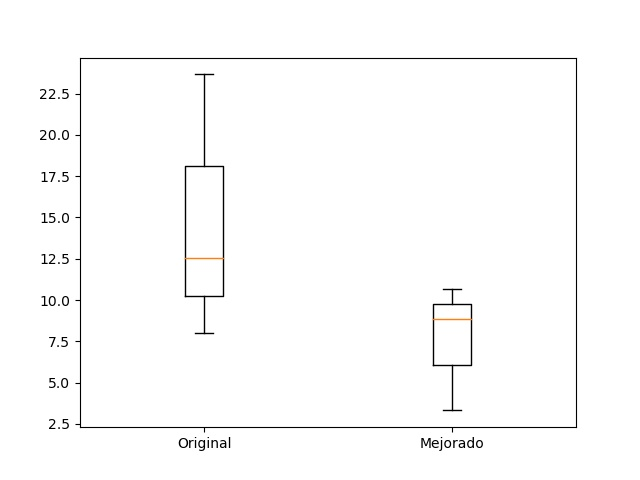
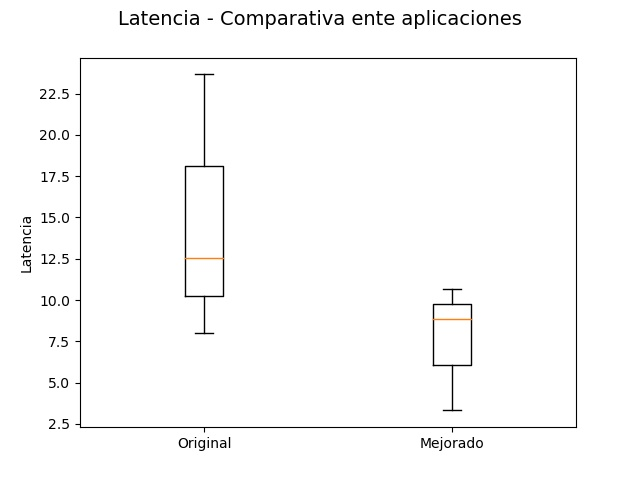
Gráficas BoxPlot

Changed region(s): [[0.3438, 0.0, 0.8125, 0.0625], [0.1875, 0.0312, 0.3125, 0.0625], [0.0312, 0.4375, 0.0625, 0.5625]]

diff --git a/graph.py b/graph.py
@@ -1,19 +1,23 @@
 import matplotlib.pyplot as plt
 
 collect = [[12.53,8.0,23.66]]
+
+fig = plt.figure()
 plt.boxplot(collect, labels=["Original"])
-plt.savefig("original.jpg")
-plt.show()
-plt.cla()
+fig.suptitle('Latencia - Aplicación Original', fontsize=14)
+plt.ylabel("Latencia")
+fig.savefig('original.jpg')
 
 collect = [[8.86,3.32,10.66]]
+fig = plt.figure()
 plt.boxplot(collect, labels=["Mejorado"])
-plt.savefig("mejorado.jpg")
-plt.show()
-plt.cla()
+fig.suptitle('Latencia - Aplicación Actualizada', fontsize=14)
+plt.ylabel("Latencia")
+fig.savefig('mejorado.jpg')
 
 collect = [[12.53,8.0,23.66],[8.86,3.32,10.66]]
+fig = plt.figure()
 plt.boxplot(collect, labels=["Original", "Mejorado"])
-plt.savefig("comparativa.jpg")
-plt.show()
-plt.cla()
+fig.suptitle('Latencia - Comparativa ente aplicaciones', fontsize=14)
+plt.ylabel("Latencia")
+fig.savefig('comparativa.jpg')
